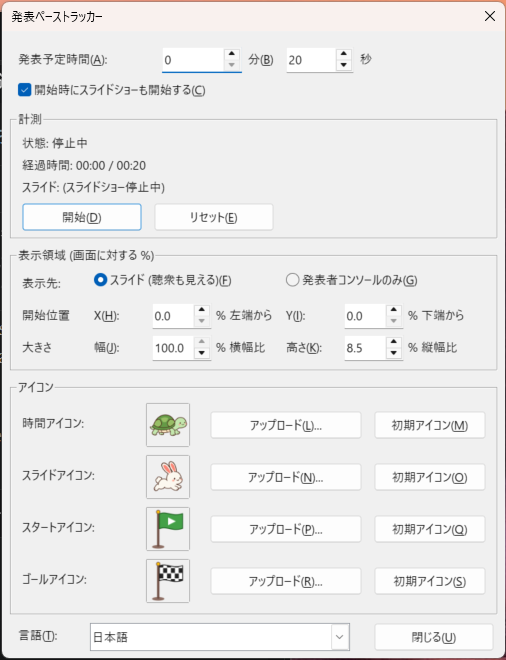
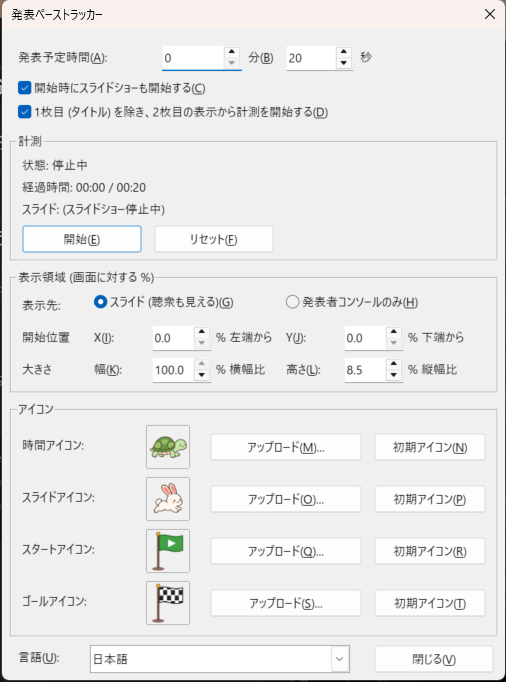
２枚目のスライドから計測開始にするモードを追加

diff --git a/src/pacetracker.py b/src/pacetracker.py
@@ -53,6 +53,8 @@ TEXTS = {
         "min": "分",
         "sec": "秒",
         "autostart": "開始時にスライドショーも開始する",
+        "skip_title": "1枚目 (タイトル) を除き、2枚目の表示から計測を開始する",
+        "state_wait": "状態: 2枚目の表示待ち",
         "measure": "計測",
         "elapsed": "経過時間: %s / %s",
         "slide": "スライド: %d / %d",
@@ -99,6 +101,8 @@ TEXTS = {
         "min": "min",
         "sec": "sec",
         "autostart": "Also start the slide show",
+        "skip_title": "Skip the title slide: start measuring at slide 2",
+        "state_wait": "State: waiting for slide 2",
         "measure": "Measurement",
         "elapsed": "Elapsed: %s / %s",
         "slide": "Slide: %d / %d",
@@ -144,6 +148,7 @@ TEXTS = {
 DEFAULT_SETTINGS = {
     "planned_seconds": 20 * 60,
     "autostart_show": True,
+    "skip_title": False,   # measure from slide 2 (the title slide is shown before the talk)
     "time_icon": "",    # empty = default icon (turtle)
     "slide_icon": "",   # empty = default icon (rabbit)
     "start_icon": "",   # empty = default icon (green flag)
@@ -556,6 +561,7 @@ class Tracker(object):
         self.doc = None            # presentation being tracked
         self.edit_frames = []      # frames of self.doc that are not the slide show
         self.started_at = None     # time.monotonic() when measuring started; None = stopped
+        self.waiting = False       # Start was pressed, waiting for slide 2 (skip_title)
         self.overlay = None
         self.last_slide = None
         self.dialog = None
@@ -679,11 +685,19 @@ class Tracker(object):
     def elapsed(self):
         return 0.0 if self.started_at is None else time.monotonic() - self.started_at
 
+    def _first_slide(self):
+        """Index of the slide at which the measurement starts."""
+        return 1 if self.settings["skip_title"] else 0
+
     def start(self):
         self._read_dialog_values()
         self.save_settings()
         if self.started_at is None:
-            self.started_at = time.monotonic()
+            ctrl = self._controller()
+            if self.settings["skip_title"] and (ctrl is None or ctrl.getCurrentSlideIndex() < 1):
+                self.waiting = True  # the clock starts when slide 2 is shown (see tick)
+            else:
+                self.started_at = time.monotonic()
         if self.settings["autostart_show"] and self.doc is not None and self._controller() is None:
             self._remember_edit_frames()
             self.doc.Presentation.start()
@@ -692,6 +706,7 @@ class Tracker(object):
 
     def reset(self):
         self.started_at = None
+        self.waiting = False
         ctrl = self._controller()
         if ctrl is not None:
             try:
@@ -829,16 +844,22 @@ class Tracker(object):
                 self.overlay = Overlay(self, parent, shared=presenter,
                                        background=PRESENTER_BACKGROUND if presenter else self._slide_background(ctrl))
         self._read_dialog_values()
+        index, count = (ctrl.getCurrentSlideIndex(), ctrl.getSlideCount()) if ctrl is not None else (0, 0)
+        first = self._first_slide()
+        if self.waiting and ctrl is not None and index >= first:
+            self.waiting = False
+            self.started_at = time.monotonic()
         elapsed = self.elapsed()
         time_progress = elapsed / self.planned_seconds
-        index, count = (ctrl.getCurrentSlideIndex(), ctrl.getSlideCount()) if ctrl is not None else (0, 0)
         measuring = self.started_at is not None
-        if measuring and count > 1:
-            slide_progress = max(0, index) / float(count - 1)
-        elif measuring and count == 1:
-            slide_progress = 1.0
-        else:
+        # the slide icon moves from the first measured slide to the last slide
+        steps = count - 1 - first
+        if not measuring:
             slide_progress = 0.0
+        elif steps > 0:
+            slide_progress = max(0, index - first) / float(steps)
+        else:
+            slide_progress = 1.0 if index >= first else 0.0
         if self.overlay is not None:
             if index != self.last_slide and self.settings["display_target"] == "slides":
                 self.overlay.set_background(self._slide_background(ctrl))
@@ -846,7 +867,7 @@ class Tracker(object):
             self.overlay.repaint_if_needed()
         self.last_slide = index
         self._update_dialog(elapsed, index, count, ctrl is not None and self.overlay is None)
-        if not measuring and self.dialog is None and self.overlay is None:
+        if not measuring and not self.waiting and self.dialog is None and self.overlay is None:
             self._stop_ticker()
 
     def _drop_overlay(self):
@@ -894,6 +915,7 @@ class Tracker(object):
         if self.doc is None or not doc == self.doc:
             if self.doc is not None and self._controller() is None:
                 self.started_at = None  # switching to another presentation
+                self.waiting = False
             self.doc = doc
             self._remember_edit_frames()
         if self.dialog is not None:
@@ -958,6 +980,7 @@ class Tracker(object):
         seconds = int(self.dialog.getControl("seconds").getModel().Value or 0)
         self.settings["planned_seconds"] = max(1, minutes * 60 + seconds)
         self.settings["autostart_show"] = self.dialog.getControl("autostart").getModel().State == 1
+        self.settings["skip_title"] = self.dialog.getControl("skip_title").getModel().State == 1
         target = "presenter" if self.dialog.getControl("target_presenter").getModel().State == 1 else "slides"
         if target != self.settings["display_target"]:
             # the display area fields show the values of the selected target
@@ -983,16 +1006,19 @@ class Tracker(object):
                 model.Label = text
         label("elapsed", t["elapsed"] % (_fmt(elapsed), _fmt(self.planned_seconds)))
         label("slide", t["slide"] % (index + 1, count) if count else t["slide_none"])
-        if not measuring:
+        if self.waiting:
+            state = t["state_wait"]
+        elif not measuring:
             state = t["state_idle"]
         else:
             state = t["state_over"] if elapsed > self.planned_seconds else t["state_run"]
         if hidden and self.settings["display_target"] == "presenter":
             state += t["no_presenter"]
         label("state", state)
+        running = measuring or self.waiting
         start_model = self.dialog.getControl("start").getModel()
-        if start_model.Enabled == measuring:
-            start_model.Enabled = not measuring
+        if start_model.Enabled == running:
+            start_model.Enabled = not running
 
     def _area_note(self, field):
         """Unit label of a display area field; Y is from the top on the Presenter Console."""
@@ -1005,12 +1031,14 @@ class Tracker(object):
         smgr, ctx = self.smgr, self.ctx
         dm = smgr.createInstanceWithContext("com.sun.star.awt.UnoControlDialogModel", ctx)
         dm.Title = t["title"]
-        dm.Width, dm.Height = 252, 314
+        dm.Width, dm.Height = 252, 326
         dm.Closeable = True
         dm.Moveable = True
 
         def add(name, kind, x, y, w, h, **props):
             m = dm.createInstance("com.sun.star.awt.UnoControl%sModel" % kind)
+            if y >= 40:
+                y += 12  # below the skip_title check box
             m.PositionX, m.PositionY, m.Width, m.Height = x, y, w, h
             for k, v in props.items():
                 setattr(m, k, v)
@@ -1027,6 +1055,8 @@ class Tracker(object):
         add("lbl_sec", "FixedText", 179, 10, 20, 10, Label=t["sec"])
         add("autostart", "CheckBox", 8, 26, 236, 10, Label=t["autostart"],
             State=1 if self.settings["autostart_show"] else 0)
+        add("skip_title", "CheckBox", 8, 38, 236, 10, Label=t["skip_title"],
+            State=1 if self.settings["skip_title"] else 0)
 
         add("grp_measure", "GroupBox", 4, 40, 244, 64, Label=t["measure"])
         add("state", "FixedText", 10, 52, 210, 10, Label="")

diff --git a/docs/INSTALL_ja.md b/docs/INSTALL_ja.md
@@ -62,6 +62,7 @@ python tools\build_oxt.py
    - 経過時間の計測が始まります。
    - 「開始時にスライドショーも開始する」にチェックがあれば、スライドショーも同時に始まります。
      チェックを外した場合は、F5 などで自分でスライドショーを始めてください。
+   - 「1枚目 (タイトル) を除き、2枚目の表示から計測を開始する」にチェックがあると、開始を押しても 1 枚目を表示している間は計測を始めません（状態欄は「2枚目の表示待ち」）。2 枚目を表示した時点から経過時間を測り始めます。発表前からタイトルスライドを映しておく場合に使います。詳しくは下の「タイトルスライドを計測から除く」を参照してください。
 5. スライドショー画面の下端に進捗バーが表示されます。バーには背景がなく、旗・アイコン・中央の線だけがスライドの上に表示されます。
 
 ![進捗バー](images/screenshot_overlay.png)
@@ -78,6 +79,17 @@ python tools\build_oxt.py
 
 6. **リセット** を押すと、経過時間が 0 に戻って計測が止まり、両方のアイコンがスタートに戻ります。スライドショーの実行中なら先頭スライドに戻ります。もう一度 **開始** を押すと計測を再開します。
 7. 管理画面は **閉じる** で閉じても計測は続きます。もう一度開くと状態を確認できます。
+
+### タイトルスライドを計測から除く
+
+発表の前からタイトルスライド（1 枚目）を映しておく場合は、管理画面の **1枚目 (タイトル) を除き、2枚目の表示から計測を開始する** にチェックを入れます。
+
+- **開始** を押した時点で 1 枚目を表示していれば、計測は「2枚目の表示待ち」になり、時間アイコンは動きません。
+- 2 枚目を表示した時点から経過時間を測り始めます。
+- スライドの進捗は 2 枚目から最後のスライドまでで計算します（2 枚目でスタート、最後のスライドでゴール）。
+- 開始を押したときにすでに 2 枚目以降を表示していれば、すぐに計測を始めます。
+- **リセット** を押すと待ち状態も解除され、スライドショーは 1 枚目に戻ります。もう一度 **開始** を押すと、また 2 枚目の表示待ちになります。
+- この設定は保存され、次回以降も使われます。
 
 ### 進捗バーを発表者だけに見せる（表示先）
 
@@ -152,7 +164,7 @@ python tools\build_oxt.py
 
 ```
 %APPDATA%\LibreOffice\4\user\pacetracker\
-    settings.json      … 予定時間・チェックボックス・表示先・表示領域・アイコン・言語の設定
+    settings.json      … 予定時間・チェックボックス（スライドショー開始、タイトル除外）・表示先・表示領域・アイコン・言語の設定
     time_icon_*.png    … アップロードした時間アイコン
     slide_icon_*.png   … アップロードしたスライドアイコン
     start_icon_*.png   … アップロードしたスタートアイコン

diff --git a/docs/INSTALL_en.md b/docs/INSTALL_en.md
@@ -71,6 +71,7 @@ The extension is installed when `list` shows `Identifier: jp.atmitani.impress.pa
    - The elapsed time measurement starts.
    - If **Also start the slide show** is checked, the slide show starts too.
      If it is unchecked, start the slide show yourself (for example with F5).
+   - If **Skip the title slide: start measuring at slide 2** is checked, the measurement does not start while slide 1 is shown (the state line says "waiting for slide 2"). The elapsed time is measured from the moment slide 2 is shown. Use this when the title slide is shown before the talk starts. See "Skip the title slide" below.
 5. A progress band appears at the bottom of the slide show. It has no background: only the flags, the icons and the line in the middle are drawn over the slide.
 
 ![Progress band](images/screenshot_overlay.png)
@@ -87,6 +88,17 @@ If the rabbit is to the right of the turtle, you are on pace to finish on time.
 
 6. **Reset** sets the elapsed time back to 0, stops the measurement and moves both icons back to the start. If the slide show is running, it returns to the first slide. Click **Start** again to measure again.
 7. Closing the dialog with **Close** does not stop the measurement. Open it again to check the state.
+
+### Skip the title slide
+
+If the title slide (slide 1) is shown before the talk starts, check **Skip the title slide: start measuring at slide 2** in the dialog.
+
+- If slide 1 is shown when you click **Start**, the measurement waits for slide 2 and the time icon does not move.
+- The elapsed time is measured from the moment slide 2 is shown.
+- Slide progress runs from slide 2 to the last slide (start at slide 2, goal at the last slide).
+- If slide 2 or a later slide is already shown when you click **Start**, the measurement starts immediately.
+- **Reset** also cancels the waiting state and returns the slide show to slide 1. Click **Start** again to wait for slide 2 again.
+- The setting is saved and used next time.
 
 ### Show the progress only to the presenter (Show on)
 
@@ -162,7 +174,7 @@ Uploaded images and settings are stored in your LibreOffice user profile and are
 | macOS | `~/Library/Application Support/LibreOffice/4/user/pacetracker/` |
 
 ```
-settings.json      planned duration, check box, Show on target, display areas, icons and language
+settings.json      planned duration, check boxes (start slide show, skip title slide), Show on target, display areas, icons and language
 time_icon_*.png    uploaded time icon
 slide_icon_*.png   uploaded slide icon
 start_icon_*.png   uploaded start icon

diff --git a/README.md b/README.md
@@ -9,7 +9,7 @@ LibreOffice Impress のスライドショー下端に進捗バーを表示し、
 ## 機能
 
 1. 管理画面で発表予定時間（分・秒）を設定
-2. 管理画面の **開始** で経過時間とスライド進捗の計測を開始（スライドショーも同時に開始できます）
+2. 管理画面の **開始** で経過時間とスライド進捗の計測を開始（スライドショーも同時に開始できます）。タイトルスライドを発表前から映しておく場合は、2 枚目の表示から計測を始めるモードも選べます
 3. スライドショーの下端に進捗バーを表示
    - 左端にスタートの旗、右端にゴールの旗
    - 時間アイコンとスライドアイコンがスタートからゴールへ横に動く

diff --git a/README_en.md b/README_en.md
@@ -9,7 +9,7 @@ A LibreOffice Impress extension that shows a progress band at the bottom of the 
 ## Features
 
 1. Set the planned duration (minutes and seconds) in the settings dialog
-2. **Start** in the dialog starts measuring the elapsed time and the slide progress (optionally also starts the slide show)
+2. **Start** in the dialog starts measuring the elapsed time and the slide progress (optionally also starts the slide show). If the title slide is shown before the talk, measurement can start at slide 2 instead
 3. A progress band is shown at the bottom of the slide show
    - Start flag on the left, goal flag on the right
    - The time icon and the slide icon move horizontally from the start to the goal
